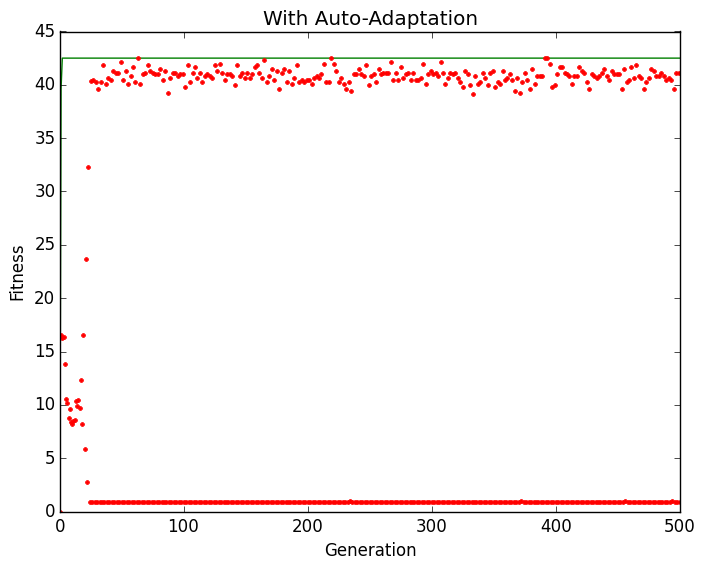
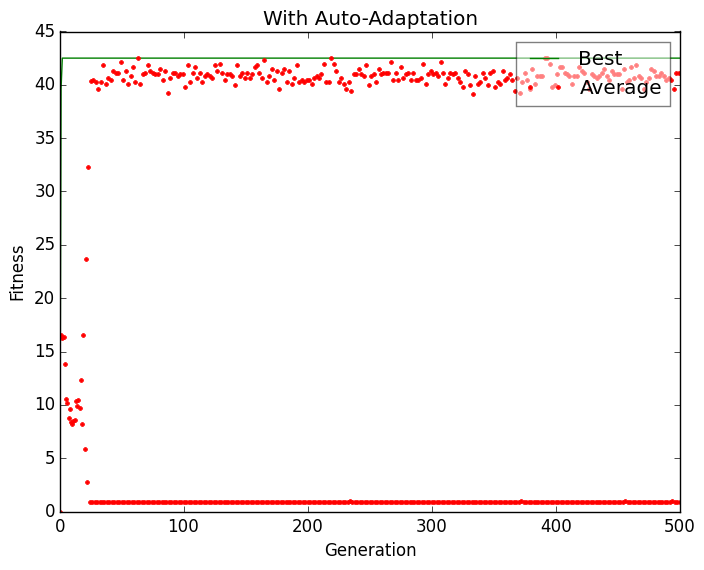
fixed some comments and added legends to the graphics

Changed region(s): [[0.7188, 0.0596, 0.9688, 0.2088]]

diff --git a/code/stratego_auto_adapt.py b/code/stratego_auto_adapt.py
@@ -224,17 +224,18 @@ def run(auto_adapt, problem, size_items):
     prob_crossover = PROB_CROSSOVER
     prob_mutation = PROB_MUTATION
 
-    if not auto_adapt:
-        # sea(numb_generations, size_pop, size_cromo, prob_mut, prob_cross, sel_parents, recombination,
-        # mutation, sel_survivors, fitness_func)
-        sim_data = sea(num_generations, population_size, size_items, prob_mutation, prob_crossover, tour_sel(3),
-                       one_point_cross, muta_bin, sel_survivors_elite(0.02), merito(problem))
-    else:
+    if auto_adapt:
         # stratego(numb_generations, size_pop, size_cromo, prob_mut, prob_cross, sel_parents, recombination,
         # mutation, sel_survivors, fitness_func, refference_window_size, refference_window)
         sim_data = stratego(num_generations, population_size, size_items, prob_mutation, prob_crossover, tour_sel(3),
                             one_point_cross, muta_bin, stratego_next_population(0.02), merito(problem),
                             refference_window_size, refference_window)
+    else:
+        # sea(numb_generations, size_pop, size_cromo, prob_mut, prob_cross, sel_parents, recombination,
+        # mutation, sel_survivors, fitness_func)
+        sim_data = sea(num_generations, population_size, size_items, prob_mutation, prob_crossover, tour_sel(3),
+                       one_point_cross, muta_bin, sel_survivors_elite(0.02), merito(problem))
+
 
     return [sim_data, phenotype, problem]
 
@@ -258,10 +259,10 @@ def run_n_times(num_runs):
         # generate a problem to be solved
         problem = generate_uncor(size_items, max_value)
 
-        # solve the "traditional way"
+        # solve using our custom method, "stratego"
         results_with_auto_adapt.append(run(True, problem, size_items))
 
-        # solve using our cusotm method, "stratego"
+        # solve the "traditional way"
         results_without_auto_adapt.append(run(False, problem, size_items))
 
     return [results_with_auto_adapt, results_without_auto_adapt]
@@ -297,10 +298,11 @@ def analyse_both(results_with_auto_adapt, results_without_auto_adapt):
             best_fitness_with.append(best_indiv[1])
             average_fitness_with.append(average_pop(population))
 
-    plt.plot(best_fitness_without, 'g', label="Without Auto-Adaptation")
-    plt.plot(average_fitness_without, 'g.', label="Without Auto-Adaptation")
-    plt.plot(best_fitness_with, 'r', label="With Auto-Adaptation")
-    plt.plot(average_fitness_with, 'r.', label="With Auto-Adaptation")
+    plt.plot(best_fitness_without, 'g', label="Best Without AD")
+    plt.plot(average_fitness_without, 'g.', label="Averange Without AD")
+    plt.plot(best_fitness_with, 'r', label="Best With AD")
+    plt.plot(average_fitness_with, 'r.', label="Averange With AD")
+    plt.legend(framealpha=0.5)
 
     global IMAGE_COUNTER
     plt.savefig("images/comparison_" + str(IMAGE_COUNTER) + ".png", bbox_inches='tight')
@@ -329,7 +331,7 @@ def plot_generations(accumulated_generations, title):
 
     plt.plot(best_fitness, 'g', label="Best")  # best individual
     plt.plot(average_fitness, 'r.', label="Average")  # average of individuals
-
+    plt.legend(framealpha=0.5)
     global IMAGE_COUNTER
     plt.savefig("images/" + str(IMAGE_COUNTER) + ".png", bbox_inches='tight')
     IMAGE_COUNTER += 1
@@ -377,7 +379,6 @@ def analyse_auto_adapt(data):
         plt.ylabel('Number of Differences')
         plt.title('Number of differences throughout generations')
         plt.plot(accumulated_differences, 'b.')
-
         global IMAGE_COUNTER
         plt.savefig("images/differences_" + str(IMAGE_COUNTER) + ".png", bbox_inches='tight')
         IMAGE_COUNTER += 1
